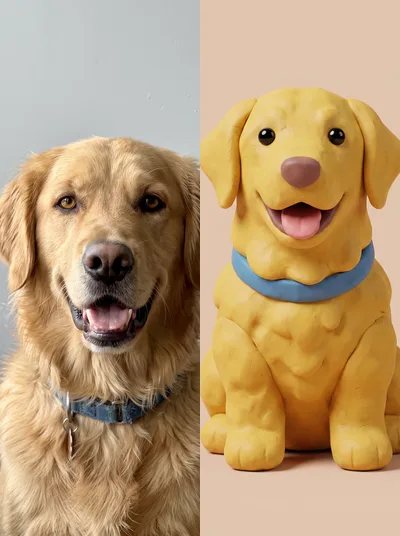
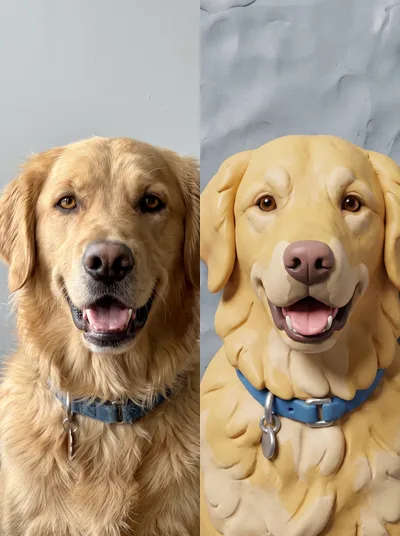
fix(magicbooth): 배경도 클레이로 + 원본 프레이밍 유지를 서버 래퍼로 일원화
■ 405 소프트 클레이 3D — 배경만 평평한 사진 배경이었다
  오너 지적: 피사체는 클레이인데 뒤는 매끈한 핑크 그라데이션이라 합성처럼 보인다.
  → 배경도 손으로 눌러 편 파스텔 점토판으로. 지문·엄지 자국·울퉁불퉁한 두께가
    보이고, 프레임을 가장자리까지 꽉 채운다(테두리·흰 여백 금지).
    소품·배경도 전부 점토.

  두 번 헛돌았고 둘 다 프롬프트로 고쳤다:
   · "torn wobbly edge" 를 넣었더니 흰 바탕 위에 점토 타일이 떠 있는 그림이
     나왔다 → "프레임을 끝까지 채운다, 가장자리·여백 없음" 으로 교체.
   · 그랬더니 이번엔 피사체가 점토판에 눌린 부조가 됐다 → "피사체는 배경 앞에
     서 있는 완전한 입체 조형물, 부조 아님" 을 명시.

■ 원본 프레이밍 유지 — 컨셉이 아니라 서버 래퍼에 넣는다
  405 가 머리·가슴 사진을 전신 인형으로 바꿔 내놔서 원본과 결과의 프레이밍이
  어긋났다. 처음엔 405 프롬프트에 넣었는데, 오너 지적대로 이건 매직 부스 14종
  전부에 해당하는 규칙이다. 컨셉마다 적어 넣으면 새 컨셉을 추가할 때마다
  빠뜨리므로 skipFacePrecheck 래퍼(api/generate.js)에 한 번만 둔다.
  "머리·어깨 사진은 머리·어깨로, 전신은 전신으로. 확대·축소·포즈 변경 금지."

썸네일 405 재생성(원본 프레이밍 일치 + 점토 배경).
sw v65 → v66.

diff --git a/api/generate.js b/api/generate.js
@@ -529,7 +529,14 @@ export default async function handler(req, res) {
     ? "Re-render the provided image in a new artistic style. " +
       "The subject can be a person, landscape, animal, object, or anything else. " +
       "Preserve the overall composition, subject identity, and recognizable features " +
-      "while transforming the medium/style. Apply the following style:\n" + prompt
+      "while transforming the medium/style. " +
+      // 프레이밍 규칙은 매직 부스 전체에 공통이라 컨셉 프롬프트가 아니라 여기에 둔다
+      // (컨셉 14개에 각각 적어 넣으면 새 컨셉을 추가할 때마다 빠뜨린다).
+      // 실측 2026-08-20: 405 소프트 클레이 3D 가 머리·가슴 사진을 전신 인형으로
+      // 바꿔 내놔서 원본과 결과의 프레이밍이 어긋났다.
+      "Keep the same framing and crop as the provided image — a head-and-shoulders photo stays " +
+      "head-and-shoulders, a full-body photo stays full-body. Do not zoom in or out, and do not " +
+      "re-pose the subject. Apply the following style:\n" + prompt
     : hasSecond
     ? "Using the TWO people in the two provided reference photos, generate a single new photograph " +
       "containing BOTH of them together. The FIRST reference image is the first person and the " +

diff --git a/public/sw.js b/public/sw.js
@@ -10,7 +10,7 @@
 // 새 버전 배포 시: 아래 VERSION 만 올리면 됨.
 // ============================================================
 
-const VERSION = "v65";
+const VERSION = "v66";
 const STATIC_CACHE = `rimikimi-static-${VERSION}`;
 const THUMB_CACHE = `rimikimi-thumbs-${VERSION}`;
 const DATA_CACHE = `rimikimi-data-${VERSION}`;
